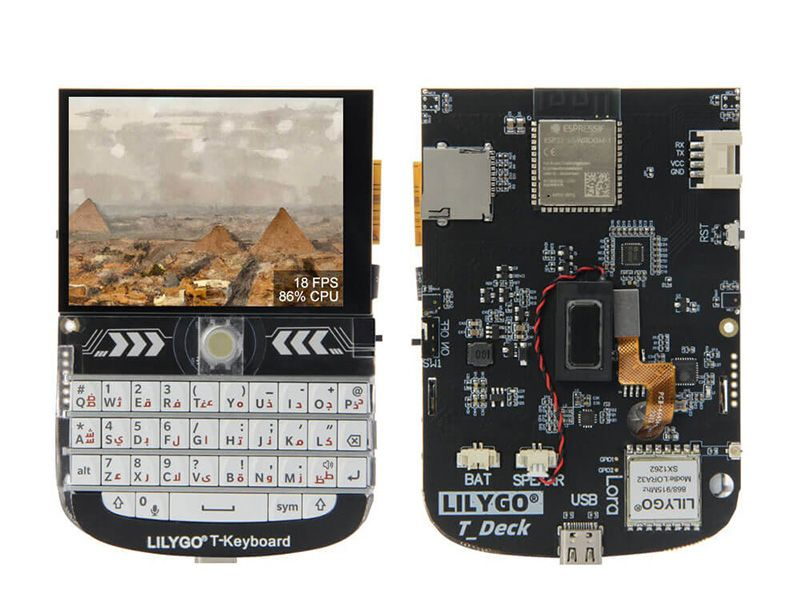
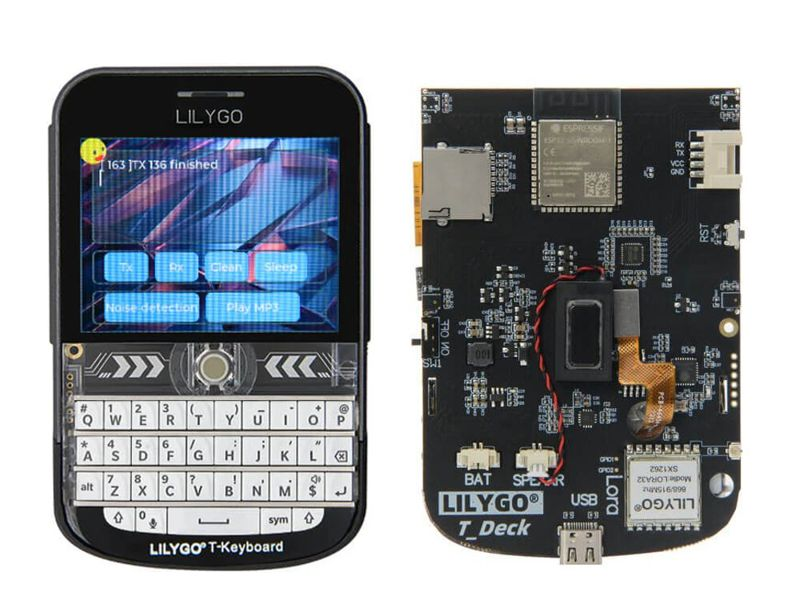
T-Deck (Plus)

Changed region(s): [[0.0625, 0.09, 0.5, 0.96]]

diff --git a/_board/lilygo_tdeck.md b/_board/lilygo_tdeck.md
@@ -1,8 +1,8 @@
 ---
 layout: download
 board_id: "lilygo_tdeck"
-title: "T-Deck Download"
-name: "T-Deck"
+title: "T-Deck (Plus) Download"
+name: "T-Deck (Plus)"
 manufacturer: "LILYGO"
 board_url:
  - "https://www.lilygo.cc/products/t-deck"
@@ -18,6 +18,8 @@ features:
 ---
 
 T-Deck is a pocket-sized gadget with a 2.8-inch, 320 x 240 pixel IPS LCD display, a mini keyboard, and an ESP32 dual-core processor. While it's not exactly a smartphone, you can use your programming knowledge to turn it into a standalone messaging device, or coding software.
+
+CircuitPython now also supports the "Plus" variant.
 
 **Specifications**
 
